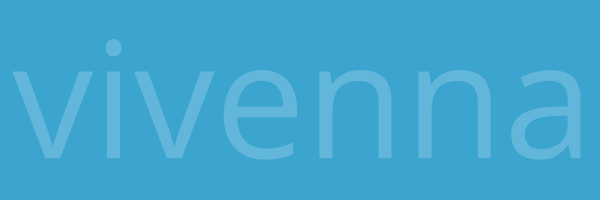
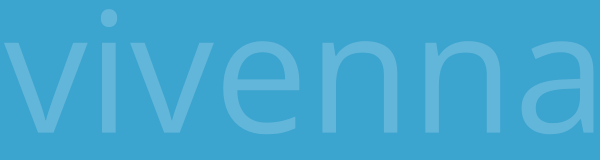
bin

Changed region(s): [[0.69, 0.25, 0.99, 0.8438], [0.24, 0.25, 0.66, 0.8438], [0.0, 0.0625, 0.27, 0.8438]]

diff --git a/index.html b/index.html
@@ -1748,8 +1748,8 @@
         .footer-bottom {
             text-align: center;
             position: relative; /* Beibehalten für die Positionierung des Copyright-Textes und des Hintergrundbildes */
-            margin-top: -8rem; /* Negativer Margin, um den Bereich weiter nach oben zu schieben (überlappt ggf. footer-container) */
-            padding-bottom: -10rem; 
+            margin-top: -8rem; /* Negativer Margin, um den Bereich weiter nach oben zu schieben */
+            padding-bottom: 0rem; /* Korrigierter unterer Innenabstand, um Überlappung zu verhindern und Bereich klein zu halten */
             width: 100%;
             overflow: hidden; /* Stellt sicher, dass überstehende Teile des Bildes abgeschnitten werden */
             margin-left: 0px;
@@ -1774,8 +1774,8 @@
             height: auto;   /* Seitenverhältnis des Bildes beibehalten */
             opacity: 0.3;   /* Beibehaltung des dezenten Effekts */
             bottom: 0;
-            margin-bottom: 0;
-            transform: translateY(5px); /* Bild nur leicht nach unten verschieben */
+            margin-bottom: 0; /* Bleibt 0, da bottom:0 für Positionierung sorgt */
+            transform: translateY(0px); /* Bild bündig am unteren Rand ausrichten, um "Rand schneller kommen zu lassen" */
         }
 
         .footer-copyright {
